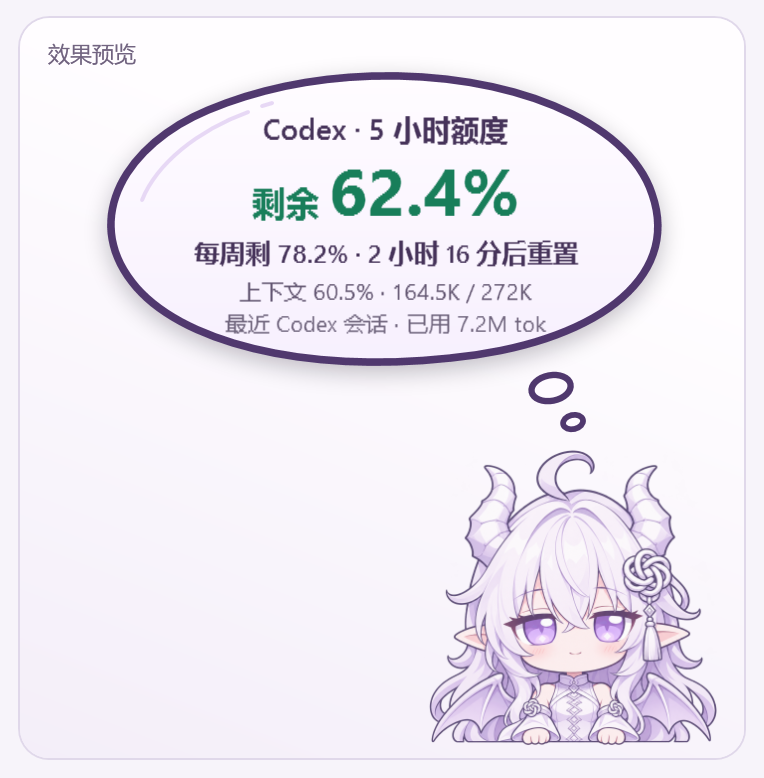
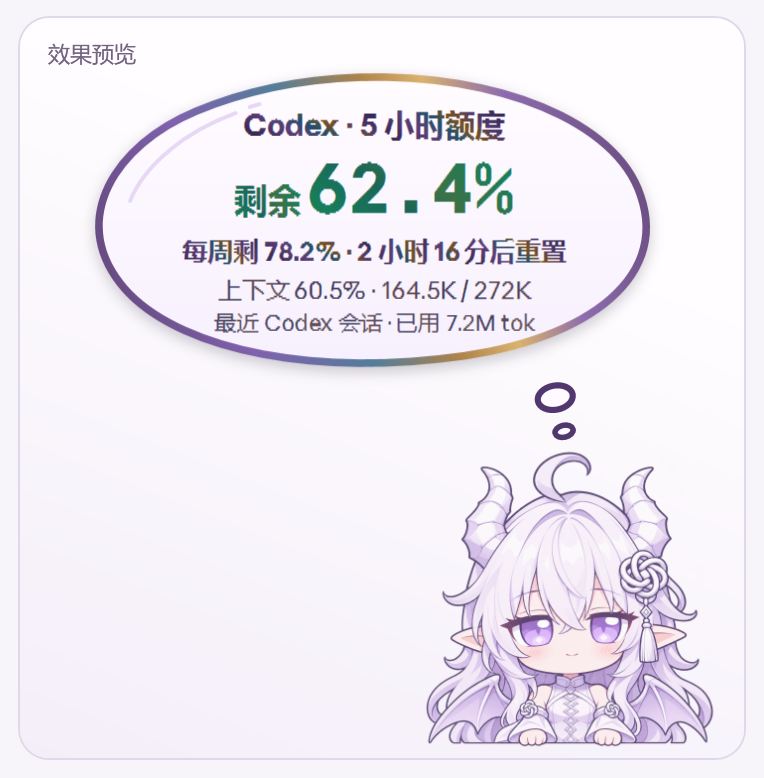
Add iridescent quota surfaces and Anthropic typography

Changed region(s): [[0.1204, 0.0925, 0.9634, 0.9563]]

diff --git a/src/TelemetryPanel.cs b/src/TelemetryPanel.cs
@@ -20,6 +20,7 @@ namespace DragonQuota
         private readonly Action _changed;
         private readonly Action _refetch;
         private readonly Action _layout;
+        private readonly IridescentRim _rim = new IridescentRim();
         private readonly DockPanel _layoutRoot = new DockPanel();
         private readonly ScrollViewer _scroller;
         private readonly StackPanel _body = new StackPanel();
@@ -65,11 +66,17 @@ namespace DragonQuota
             AllowsTransparency = true;
             Background = Brushes.Transparent;
             UseLayoutRounding = true;
+            var paper = new LinearGradientBrush(Color.FromArgb(251, 255, 252, 247), Color.FromArgb(248, 248, 243, 254), 115);
+            var liner = new Border {
+                BorderBrush = WidgetView.Paint("#B5E8D4AC"), BorderThickness = new Thickness(1), CornerRadius = new CornerRadius(13),
+                Margin = new Thickness(1), Padding = new Thickness(12, 9, 12, 10), Child = _layoutRoot
+            };
             var shell = new Border {
-                Background = PanelTheme.Paper, BorderBrush = PanelTheme.Line, BorderThickness = new Thickness(1),
-                CornerRadius = new CornerRadius(16), Padding = new Thickness(15, 12, 15, 13), Child = _layoutRoot
+                Background = paper, BorderBrush = _rim.Brush, BorderThickness = new Thickness(2),
+                CornerRadius = new CornerRadius(16), Child = liner
             };
             Content = shell;
+            IsVisibleChanged += (sender, args) => _rim.SetVisible(IsVisible);
             _toolbar.Margin = new Thickness(0, 0, 0, 12);
             _footer.Margin = new Thickness(0, 12, 0, 0);
             DockPanel.SetDock(_toolbar, Dock.Top);
@@ -136,8 +143,8 @@ namespace DragonQuota
                 _toolbar.Children.Add(avatar);
             }
             var titleRow = new StackPanel { Orientation = Orientation.Horizontal };
-            titleRow.Children.Add(PanelTheme.Text(page == PanelPage.Settings ? "挂件设置" :
-                page == PanelPage.Context ? "上下文观察" : "白龙额度", 17, bold: true));
+            titleRow.Children.Add(Heading(page == PanelPage.Settings ? "挂件设置" :
+                page == PanelPage.Context ? "上下文观察" : "白龙额度", 17));
             _badge = new Border {
                 Margin = new Thickness(8, 0, 0, 0), Padding = new Thickness(6, 3, 6, 3),
                 Background = PanelTheme.Tint, CornerRadius = new CornerRadius(8), VerticalAlignment = VerticalAlignment.Center,
@@ -239,7 +246,7 @@ namespace DragonQuota
                     if (!_sessionPicker.IsDropDownOpen) RenderContext();
                 };
                 _sessionPicker.DropDownClosed += (sender, args) => RenderContext();
-                _body.Children.Add(PanelTheme.Text("会话来源", 12, bold: true));
+                _body.Children.Add(Heading("会话来源", 12));
                 _body.Children.Add(_sessionPicker);
                 _contextDetails = new StackPanel();
                 _body.Children.Add(_contextDetails);
@@ -266,7 +273,7 @@ namespace DragonQuota
             AddOptionalUsage("推理 Token · 计入输出", _session.Reasoning);
             AddOptionalUsage("缓存写入 Token", _session.CacheWrite);
             _contextDetails.Children.Add(PanelTheme.Rule());
-            _contextDetails.Children.Add(PanelTheme.Text("最近轮次", 13, bold: true));
+            _contextDetails.Children.Add(Heading("最近轮次"));
             if (_session.RecentTurns.Length == 0) _contextDetails.Children.Add(Muted("尚无已结束的轮次。"));
             foreach (var turn in _session.RecentTurns)
             {
@@ -278,7 +285,7 @@ namespace DragonQuota
             }
             if (_session.TopTools.Length == 0) return;
             _contextDetails.Children.Add(PanelTheme.Rule());
-            _contextDetails.Children.Add(PanelTheme.Text("常用工具", 13, bold: true));
+            _contextDetails.Children.Add(Heading("常用工具"));
             foreach (var tool in _session.TopTools)
             {
                 var row = PanelTheme.Row(Muted(tool.Key), PanelTheme.Text(tool.Value + " 次", 11.5));
@@ -293,7 +300,7 @@ namespace DragonQuota
             string label = usage.HasValue ? PanelTheme.Count(_session.ContextUsed) + " / " + PanelTheme.Count(_session.ContextLimit) +
                 "  ·  " + PanelTheme.Percent(usage) : "等待上下文记录";
             Brush color = usage > 90 ? PanelTheme.Rose : usage > 75 ? PanelTheme.Amber : PanelTheme.Purple;
-            panel.Children.Add(PanelTheme.Row(PanelTheme.Text("上下文长度", 13, bold: true), PanelTheme.Text(label, 11.5, color, true)));
+            panel.Children.Add(PanelTheme.Row(Heading("上下文长度"), PanelTheme.Text(label, 11.5, _rim.Accent(color), true, WidgetFonts.Mono)));
             panel.Children.Add(PanelTheme.Progress(usage, color));
             if (_session != null) panel.Children.Add(Muted("上下文已压缩 " + _session.Compactions + " 次"));
         }
@@ -301,7 +308,7 @@ namespace DragonQuota
         private void AddUsage(Panel panel)
         {
             string summary = _session == null ? "" : _session.Turns + " 轮  ·  " + _session.Tools + " 次工具";
-            panel.Children.Add(PanelTheme.Row(PanelTheme.Text("本会话已用 Token", 13, bold: true), Muted(summary)));
+            panel.Children.Add(PanelTheme.Row(Heading("本会话已用 Token"), Muted(summary)));
             var metrics = new Grid { Margin = new Thickness(0, 8, 0, 7) };
             metrics.ColumnDefinitions.Add(new ColumnDefinition());
             metrics.ColumnDefinitions.Add(new ColumnDefinition { Width = new GridLength(7) });
@@ -336,7 +343,7 @@ namespace DragonQuota
         private void AddQuotas(Panel panel)
         {
             string freshness = _quotaStatus ?? (_quota == null ? "" : (_quota.FromService ? "接口 · " : "会话记录 · ") + QuotaRefresh.Age(_quota.At, _at));
-            panel.Children.Add(PanelTheme.Row(PanelTheme.Text("模型剩余额度", 13, bold: true), Muted(freshness)));
+            panel.Children.Add(PanelTheme.Row(Heading("模型剩余额度"), Muted(freshness)));
             if (_quota == null)
             {
                 var unavailable = Muted(_loading ? "正在查询 Codex 额度…" : "暂未取得 Codex 额度");
@@ -348,7 +355,7 @@ namespace DragonQuota
             {
                 string detail = String.IsNullOrWhiteSpace(pool.Plan) ? "" : pool.Plan.ToUpperInvariant();
                 if (pool.At != _quota.At) detail = "接口 · " + QuotaRefresh.Age(pool.At, _at);
-                var name = PanelTheme.Row(PanelTheme.Text(pool.Name ?? "Codex", 12, bold: true),
+                var name = PanelTheme.Row(Heading(pool.Name ?? "Codex", 12),
                     Muted(detail));
                 name.Margin = new Thickness(0, 8, 0, 5);
                 panel.Children.Add(name);
@@ -391,15 +398,16 @@ namespace DragonQuota
             var color = expired ? PanelTheme.Muted : PanelTheme.QuotaColor(window.Remaining);
             string right = expired ? "等待同步" : "剩 " + WidgetView.Percent(window.Remaining);
             if (!expired && window.ResetsAt.HasValue) right += "  ·  " + WidgetView.ResetText(window, _at);
-            panel.Children.Add(PanelTheme.Row(PanelTheme.Text(WidgetView.WindowName(window), 11.5), PanelTheme.Text(right, 11, color, true)));
+            panel.Children.Add(PanelTheme.Row(PanelTheme.Text(WidgetView.WindowName(window), 11.5, _rim.Ink),
+                PanelTheme.Text(right, 11, _rim.Accent(color), true)));
             panel.Children.Add(PanelTheme.Progress(expired ? (double?)null : window.Remaining, color));
         }
 
-        private static Border Metric(string title, string value, Brush color)
+        private Border Metric(string title, string value, Brush color)
         {
             var content = new StackPanel();
             content.Children.Add(Muted(title));
-            content.Children.Add(PanelTheme.Text(value, 17, color, true));
+            content.Children.Add(PanelTheme.Text(value, 17, color == PanelTheme.Ink ? _rim.Ink : _rim.Accent(color), true, WidgetFonts.Mono));
             return new Border {
                 Padding = new Thickness(10, 7, 10, 7), CornerRadius = new CornerRadius(9),
                 Background = PanelTheme.Tint, Child = content
@@ -418,7 +426,8 @@ namespace DragonQuota
             _footer.Children.Add(item);
         }
 
-        private static TextBlock Muted(string text) { return PanelTheme.Text(text, 11.5, PanelTheme.Muted); }
+        private TextBlock Heading(string text, double size = 13) { return PanelTheme.Text(text, size, _rim.Ink, true); }
+        private TextBlock Muted(string text) { return PanelTheme.Text(text, 11.5, _rim.Accent(PanelTheme.Muted)); }
         private static string Rate(double value) { return value.ToString("0.#", CultureInfo.InvariantCulture) + " tok/s"; }
         private static string ShortId(string id) { return id.Length <= 7 ? id : id.Substring(id.Length - 7); }
 

diff --git a/src/IridescentRim.cs b/src/IridescentRim.cs
@@ -1,0 +1,120 @@
+using System;
+using System.Collections.Generic;
+using System.Windows;
+using System.Windows.Media;
+using System.Windows.Media.Animation;
+
+namespace DragonQuota
+{
+    internal sealed class IridescentRim
+    {
+        private readonly RotateTransform _rotation;
+        private readonly double _start;
+        private readonly Dictionary<Color, Brush> _accents = new Dictionary<Color, Brush>();
+        private bool _animating;
+
+        public LinearGradientBrush Brush { get; private set; }
+        public Brush Ink { get; private set; }
+
+        public IridescentRim(bool strong = false)
+        {
+            _start = strong ? -22 : 14;
+            _rotation = new RotateTransform(_start, .5, .5);
+            Brush = NewGradient();
+            if (strong)
+            {
+                Add("#624676", 0);
+                Add("#7F61AD", .24);
+                Add("#547D9A", .42);
+                Add("#AE824C", .56);
+                Add("#DAB26D", .66);
+                Add("#8D6CAD", .78);
+                Add("#624676", 1);
+            }
+            else
+            {
+                Add("#C28E4F", 0);
+                Add("#F2D69C", .22);
+                Add("#C39CCD", .41);
+                Add("#8CAFBF", .55);
+                Add("#FFEDC0", .69);
+                Add("#E7BA78", .82);
+                Add("#C28E4F", 1);
+            }
+
+            var ink = NewGradient();
+            AddStop(ink, "#382A54", 0);
+            AddStop(ink, "#5C3E76", .29);
+            AddStop(ink, "#234F6A", .49);
+            AddStop(ink, "#79511D", .63);
+            AddStop(ink, "#4F386D", .81);
+            AddStop(ink, "#382A54", 1);
+            Ink = ink;
+        }
+
+        public Brush Accent(Brush color)
+        {
+            var solid = color as SolidColorBrush;
+            if (solid == null) return color;
+            Brush cached;
+            if (_accents.TryGetValue(solid.Color, out cached)) return cached;
+
+            var gradient = NewGradient();
+            gradient.GradientStops.Add(new GradientStop(solid.Color, 0));
+            gradient.GradientStops.Add(new GradientStop(Blend(solid.Color, Color.FromRgb(27, 55, 85)), .36));
+            gradient.GradientStops.Add(new GradientStop(Blend(solid.Color, Color.FromRgb(131, 90, 38)), .62));
+            gradient.GradientStops.Add(new GradientStop(solid.Color, 1));
+            _accents[solid.Color] = gradient;
+            return gradient;
+        }
+
+        public void SetVisible(bool visible)
+        {
+            bool animate = visible && SystemParameters.ClientAreaAnimation;
+            if (_animating == animate) return;
+            _animating = animate;
+            if (!animate)
+            {
+                _rotation.BeginAnimation(RotateTransform.AngleProperty, null);
+                return;
+            }
+
+            var sweep = new DoubleAnimation(_start, _start + 360, TimeSpan.FromSeconds(7))
+            {
+                RepeatBehavior = RepeatBehavior.Forever
+            };
+            Timeline.SetDesiredFrameRate(sweep, 24);
+            _rotation.BeginAnimation(RotateTransform.AngleProperty, sweep);
+        }
+
+        private void Add(string hex, double position)
+        {
+            AddStop(Brush, hex, position);
+        }
+
+        private LinearGradientBrush NewGradient()
+        {
+            return new LinearGradientBrush {
+                StartPoint = new Point(0, .15), EndPoint = new Point(1, .85), RelativeTransform = _rotation
+            };
+        }
+
+        private static void AddStop(LinearGradientBrush gradient, string hex, double position)
+        {
+            gradient.GradientStops.Add(new GradientStop((Color)ColorConverter.ConvertFromString(hex), position));
+        }
+
+        private static Color Blend(Color first, Color second)
+        {
+            return Color.FromRgb((byte)((first.R * 2 + second.R) / 3),
+                (byte)((first.G * 2 + second.G) / 3), (byte)((first.B * 2 + second.B) / 3));
+        }
+    }
+
+    internal static class WidgetFonts
+    {
+        public static readonly FontFamily Sans = new FontFamily("Anthropic Sans Desktop, Anthropic Sans Web Display Light, Microsoft YaHei UI, Segoe UI");
+        public static readonly FontFamily Serif = new FontFamily("Anthropic Serif Desktop, Anthropic Serif Web Display Light, Microsoft YaHei UI, Georgia");
+        public static readonly FontFamily Mono = new FontFamily("Anthropic Mono Desktop, Anthropic Mono Web, Microsoft YaHei UI, Consolas");
+    }
+}

diff --git a/src/WidgetView.cs b/src/WidgetView.cs
@@ -18,7 +18,6 @@ namespace DragonQuota
         public const double BubbleHeight = 153;
         public const double CompactBubbleWidth = 176;
         public const double CompactBubbleHeight = 96;
-        private static readonly FontFamily UiFont = new FontFamily("Segoe UI, Microsoft YaHei UI");
         private static readonly Brush Plum = Paint("#50386E");
         private static readonly Brush Ink = Paint("#46335A");
         private static readonly Brush Muted = Paint("#4A3D60");
@@ -39,6 +38,7 @@ namespace DragonQuota
         private readonly Ellipse _smallThought;
         private readonly Path _outline;
         private readonly Path _glaze;
+        private readonly IridescentRim _rim = new IridescentRim(strong: true);
         private readonly ScaleTransform _breath = new ScaleTransform(1, 1);
         private readonly ScaleTransform _squash = new ScaleTransform(1, 1);
         private readonly TranslateTransform _bubbleLift = new TranslateTransform();
@@ -65,10 +65,11 @@ namespace DragonQuota
             _outline = new Path {
                 Data = Geometry.Parse("M 132 5 C 200 3 260 27 272 64 C 287 107 242 139 171 146 C 98 154 35 138 12 108 C -13 76 9 39 50 22 C 74 12 101 6 132 5 Z"),
                 Fill = new LinearGradientBrush(ColorOf("#FFFCFF"), ColorOf("#F7F0FE"), 90),
-                Stroke = Plum, StrokeThickness = 3.8, StrokeLineJoin = PenLineJoin.Round,
+                Stroke = _rim.Brush, StrokeThickness = 3.8, StrokeLineJoin = PenLineJoin.Round,
                 Effect = new DropShadowEffect { Color = ColorOf("#352154"), BlurRadius = 11, ShadowDepth = 3, Direction = 275, Opacity = .21 }
             };
             Bubble.Children.Add(_outline);
+            Bubble.IsVisibleChanged += (sender, args) => _rim.SetVisible(Bubble.IsVisible);
             _glaze = new Path {
                 Data = Geometry.Parse("M 17 67 C 24 49 45 32 70 23 M 77 20 L 82 18.5"),
                 Stroke = Paint("#E7D8F5"), StrokeThickness = 2, StrokeStartLineCap = PenLineCap.Round,
@@ -82,6 +83,7 @@ namespace DragonQuota
             _context = MakeLabel(Muted, FontWeights.Medium);
             _tokens = MakeLabel(LightInk, FontWeights.Medium);
             _dialogue = MakeLabel(Ink, FontWeights.SemiBold);
+            _dialogue.FontFamily = WidgetFonts.Serif;
             _dialogue.TextWrapping = TextWrapping.Wrap;
             Children.Add(Bubble);
 
@@ -287,7 +289,7 @@ namespace DragonQuota
 
             bool resetPassed = main != null && main.ResetsAt.HasValue && main.ResetsAt.Value <= now;
             _value.Inlines.Clear();
-            _value.Foreground = main == null || resetPassed ? Muted : RemainingColor(main.Remaining);
+            _value.Foreground = _rim.Accent(main == null || resetPassed ? Muted : RemainingColor(main.Remaining));
             if (main == null || resetPassed)
             {
                 _value.Inlines.Add(new Run(loading ? "读取中…" : resetPassed ? "等待同步" : "额度暂不可用") {
@@ -297,7 +299,7 @@ namespace DragonQuota
             else
             {
                 _value.Inlines.Add(new Run("剩余 ") { FontSize = (_compact ? 13 : 17) * _bubbleScale, FontWeight = FontWeights.SemiBold });
-                _value.Inlines.Add(new Run(Percent(main.Remaining)));
+                _value.Inlines.Add(new Run(Percent(main.Remaining)) { FontFamily = WidgetFonts.Mono });
             }
 
             Bubble.ToolTip = (String.IsNullOrEmpty(status) ? "" : status + "\n") + Details(quota, local, now);
@@ -376,8 +378,8 @@ namespace DragonQuota
         private TextBlock MakeLabel(Brush color, FontWeight weight)
         {
             var label = new TextBlock {
-                FontFamily = UiFont, FontWeight = weight, SnapsToDevicePixels = true,
-                Foreground = color, TextAlignment = TextAlignment.Center,
+                FontFamily = WidgetFonts.Sans, FontWeight = weight, SnapsToDevicePixels = true,
+                Foreground = color == Ink ? _rim.Ink : _rim.Accent(color), TextAlignment = TextAlignment.Center,
                 TextTrimming = TextTrimming.CharacterEllipsis, IsHitTestVisible = false
             };
             Bubble.Children.Add(label);

diff --git a/src/PanelTheme.cs b/src/PanelTheme.cs
@@ -8,7 +8,7 @@ namespace DragonQuota
 {
     internal static class PanelTheme
     {
-        public static readonly FontFamily Font = new FontFamily("Segoe UI, Microsoft YaHei UI");
+        public static readonly FontFamily Font = WidgetFonts.Sans;
         public static readonly Brush Ink = WidgetView.Paint("#2F2442");
         public static readonly Brush Muted = WidgetView.Paint("#695D7B");
         public static readonly Brush Purple = WidgetView.Paint("#6947AC");
@@ -71,10 +71,10 @@ namespace DragonQuota
                 </Setter>
             </Style>");
 
-        public static TextBlock Text(string value, double size = 12, Brush color = null, bool bold = false)
+        public static TextBlock Text(string value, double size = 12, Brush color = null, bool bold = false, FontFamily font = null)
         {
             return new TextBlock {
-                Text = value, FontFamily = Font, FontSize = size, Foreground = color ?? Ink,
+                Text = value, FontFamily = font ?? Font, FontSize = size, Foreground = color ?? Ink,
                 FontWeight = bold ? FontWeights.SemiBold : FontWeights.Normal, TextTrimming = TextTrimming.CharacterEllipsis,
                 VerticalAlignment = VerticalAlignment.Center
             };

diff --git a/src/Program.cs b/src/Program.cs
@@ -11,8 +11,8 @@ using System.Windows.Media.Imaging;
 
 [assembly: AssemblyTitle("白龙额度 · Codex 插件")]
 [assembly: AssemblyDescription("由 Codex 启动接入加载的白龙额度插件")]
-[assembly: AssemblyVersion("3.1.0.0")]
-[assembly: AssemblyFileVersion("3.1.0.0")]
+[assembly: AssemblyVersion("3.2.0.0")]
+[assembly: AssemblyFileVersion("3.2.0.0")]
 
 namespace DragonQuota
 {
@@ -89,7 +89,7 @@ namespace DragonQuota
             Canvas.SetTop(frame, 8);
             surface.Children.Add(frame);
             var demo = new TextBlock {
-                Text = "效果预览", FontSize = 11, FontFamily = new FontFamily("Microsoft YaHei UI"),
+                Text = "效果预览", FontSize = 11, FontFamily = WidgetFonts.Sans,
                 Foreground = WidgetView.Paint("#726481")
             };
             Canvas.SetLeft(demo, 24);

diff --git a/src/StatsWindow.cs b/src/StatsWindow.cs
@@ -28,7 +28,7 @@ namespace DragonQuota
             _text.TextAlignment = TextAlignment.Center;
             Content = new Border {
                 CornerRadius = new CornerRadius(11), Background = WidgetView.Paint("#F7F1FC"),
-                BorderBrush = PanelTheme.Line, BorderThickness = new Thickness(1),
+                BorderBrush = new IridescentRim().Brush, BorderThickness = new Thickness(1),
                 Padding = new Thickness(8, 2, 8, 2), Child = _text
             };
             _handle = new WindowInteropHelper(this).EnsureHandle();

diff --git a/README.md b/README.md
@@ -22,6 +22,8 @@
 - **刷新额度**会立即查询，面板和主气泡会显示额度来源和数据时间。面板右上角的「复制」可复制额度摘要和重置时间。
 - **挂件设置**支持调整形象大小、气泡大小和透明度，替换待机、思考、戳一下和庆祝形象，编辑气泡对白，切换统计栏及完成提醒。设置页内的气泡会持续预览当前大小。
 
+额度气泡和详情面板可见时，边框会在浅金、淡紫和雾蓝之间流动，标题和额度数字也有流光。挂件优先使用系统已有的 Anthropic Sans、Serif 和 Mono，中文字形使用微软雅黑 UI 补齐。流光跟随 Windows 的动画效果设置。
+
 <img src="docs/preview.png" alt="统计面板和挂件设置预览，数值为演示数据" width="600">
 
 Codex 在前台时，挂件默认每 15 秒通过本机 Codex 的 `account/rateLimits/read` 查询额度。间隔可在设置中选 10、15 或 60 秒。点击气泡、打开面板、对话完成或额度窗口到达重置时间时，会提前查询。会话日志里有更新的额度记录时，挂件会先显示这笔数据。接口暂时失败会延长自动重试间隔，面板仍可手动刷新。
